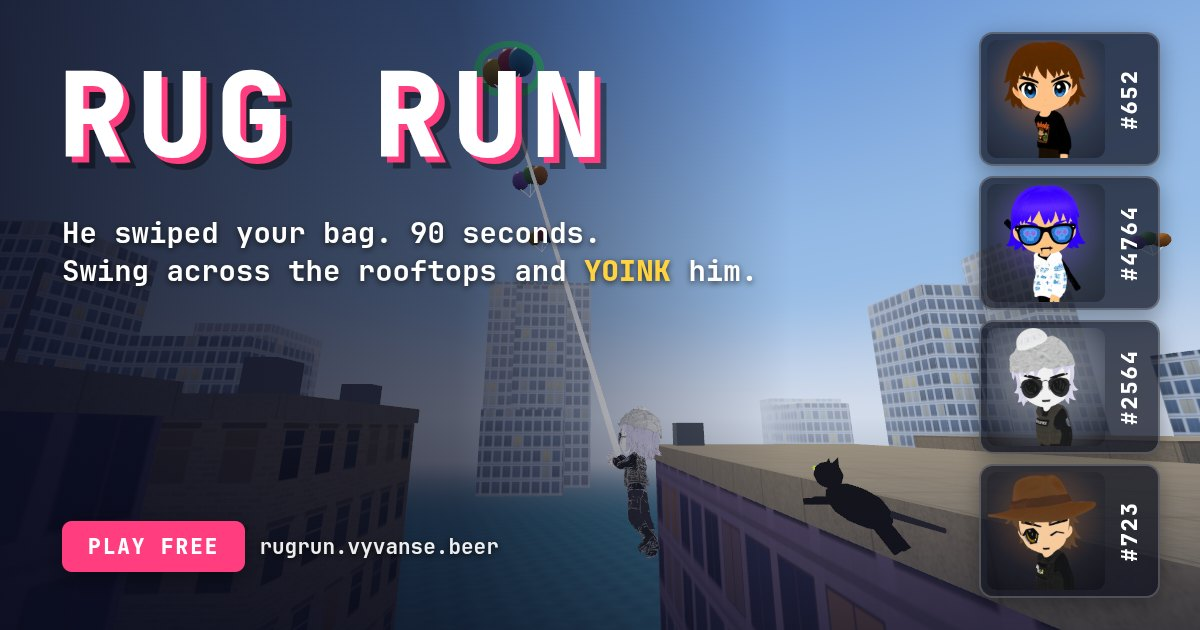
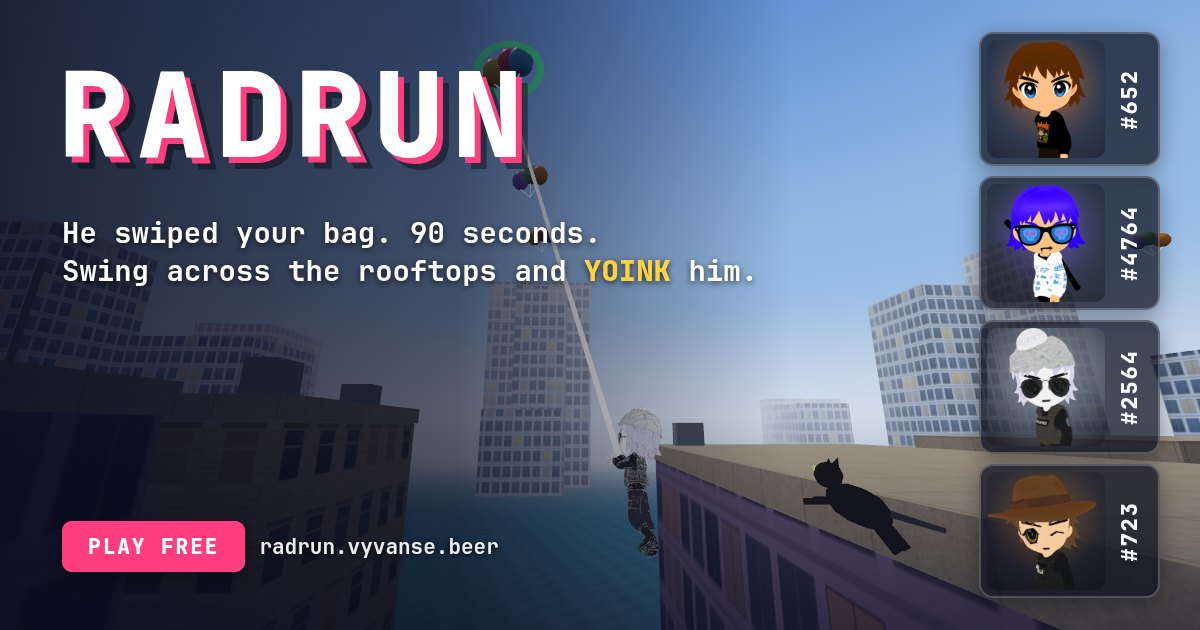
Rename the game to RadRun
Title wordmark, page title and link-preview tags, share / ghost text, rotate hint and the share card
(og.jpg re-composited over the same frame) now read RadRun on radrun.vyvanse.beer. vercel.json
permanently redirects rugrun.vyvanse.beer and radbro-rug-run.vercel.app to radrun.vyvanse.beer,
path and query kept, so old challenge / ghost links keep working. localStorage keys and RUGRUN_*
env vars keep the working-title name (no lost bests or campaign progress). README / PLAY.md
updated; the historical specs get a working-title note.

Changed region(s): [[0.0925, 0.0905, 0.5242, 0.2714], [0.2158, 0.8444, 0.2467, 0.8746]]

diff --git a/index.html b/index.html
@@ -3,29 +3,29 @@
   <head>
     <meta charset="UTF-8" />
     <meta name="viewport" content="width=device-width, initial-scale=1.0" />
-    <title>Rug Run</title>
+    <title>RadRun</title>
     <meta name="description" content="He swiped your bag. 90 seconds. Swing across the rooftops and YOINK him." />
     <meta name="theme-color" content="#141833" />
     <link rel="icon" href="/favicon.svg" type="image/svg+xml" />
     <link rel="apple-touch-icon" href="/apple-touch-icon.png" />
-    <link rel="canonical" href="https://rugrun.vyvanse.beer/" />
+    <link rel="canonical" href="https://radrun.vyvanse.beer/" />
     <meta property="og:type" content="website" />
-    <meta property="og:site_name" content="Rug Run" />
-    <meta property="og:title" content="Rug Run" />
+    <meta property="og:site_name" content="RadRun" />
+    <meta property="og:title" content="RadRun" />
     <meta property="og:description" content="He swiped your bag. 90 seconds. Swing across the rooftops and YOINK him." />
-    <meta property="og:url" content="https://rugrun.vyvanse.beer/" />
-    <meta property="og:image" content="https://rugrun.vyvanse.beer/og.jpg" />
+    <meta property="og:url" content="https://radrun.vyvanse.beer/" />
+    <meta property="og:image" content="https://radrun.vyvanse.beer/og.jpg" />
     <meta property="og:image:type" content="image/jpeg" />
     <meta property="og:image:width" content="1200" />
     <meta property="og:image:height" content="630" />
-    <meta property="og:image:alt" content="Rug Run: a Radbro swinging from a balloon over the rooftops, with Radbros #652, #4764, #2564 and #723" />
+    <meta property="og:image:alt" content="RadRun: a Radbro swinging from a balloon over the rooftops, with Radbros #652, #4764, #2564 and #723" />
     <meta name="twitter:card" content="summary_large_image" />
     <meta name="twitter:site" content="@dexedrne" />
     <meta name="twitter:creator" content="@dexedrne" />
-    <meta name="twitter:title" content="Rug Run" />
+    <meta name="twitter:title" content="RadRun" />
     <meta name="twitter:description" content="He swiped your bag. 90 seconds. Swing across the rooftops and YOINK him." />
-    <meta name="twitter:image" content="https://rugrun.vyvanse.beer/og.jpg" />
-    <meta name="twitter:image:alt" content="Rug Run: a Radbro swinging from a balloon over the rooftops, with Radbros #652, #4764, #2564 and #723" />
+    <meta name="twitter:image" content="https://radrun.vyvanse.beer/og.jpg" />
+    <meta name="twitter:image:alt" content="RadRun: a Radbro swinging from a balloon over the rooftops, with Radbros #652, #4764, #2564 and #723" />
     <style>
       html, body, #root { margin: 0; height: 100%; width: 100%; background: #9fc3e6; overflow: hidden; }
       body { font: 13px/1.4 ui-monospace, SFMono-Regular, Menlo, monospace; color: #fff; }

diff --git a/src/app/SandboxPage.tsx b/src/app/SandboxPage.tsx
@@ -34,7 +34,7 @@ function Hud({ game }: { game: Sandbox }) {
     <>
       <div style={{ position: "fixed", left: "50%", top: "50%", width: 8, height: 8, marginLeft: -4, marginTop: -4, borderRadius: 4, background: ringColor, boxShadow: "0 0 0 1.5px rgba(0,0,0,0.5)", zIndex: 10, pointerEvents: "none" }} />
       <div style={{ ...panel, left: 8, top: 8 }}>
-        <div><b>RUG RUN</b> · sandbox {AUTOPLAY ? "· autoplay" : ""}</div>
+        <div><b>RADRUN</b> · sandbox {AUTOPLAY ? "· autoplay" : ""}</div>
         <div>{hud.speed.toFixed(1)} m/s · {hud.phase} · chain {hud.chain}</div>
         <div style={{ opacity: 0.8 }}>top {hud.topSpeed.toFixed(1)} m/s · best chain {hud.maxChain} · falls {hud.falls} · bonks {hud.bonks}</div>
         <div style={{ opacity: 0.6 }}>{backend || "…"} · {hud.fps.toFixed(0)} fps{ready ? "" : " · loading city…"}</div>
@@ -51,7 +51,7 @@ function Hud({ game }: { game: Sandbox }) {
           style={{ position: "fixed", inset: 0, zIndex: 20, display: "grid", placeItems: "center", background: "rgba(8,10,20,0.35)", cursor: "pointer" }}
         >
           <div style={{ background: "rgba(12,16,28,0.85)", padding: "18px 26px", borderRadius: 10, textAlign: "center" }}>
-            <div style={{ fontSize: 28, fontWeight: 800, letterSpacing: 2 }}>RUG RUN</div>
+            <div style={{ fontSize: 28, fontWeight: 800, letterSpacing: 2 }}>RADRUN</div>
             <div style={{ marginTop: 6 }}>free-swing sandbox — click to play</div>
           </div>
         </div>

diff --git a/tools/og-image.ts b/tools/og-image.ts
@@ -1,5 +1,5 @@
 // Link-preview assets: public/og.jpg (1200x630 OG / Twitter card: a mid-swing frame from the game with
-// the RUG RUN logo, the pitch and the Radbro portraits) and public/apple-touch-icon.png (180 px,
+// the RADRUN logo, the pitch and the Radbro portraits) and public/apple-touch-icon.png (180 px,
 // from public/favicon.svg).
 //   npm run dev   (in another shell)
 //   RUGRUN_CHROME_PROFILE=<throwaway dir> node tools/og-image.ts [--url <game url>] [--pick N] [--bg <png>] [--bg-out <png>]
@@ -105,9 +105,9 @@ try {
   </style></head><body>
     <img class="bg" src="${bg}">
     <div class="shade"></div>
-    <div class="logo">RUG RUN</div>
+    <div class="logo">RADRUN</div>
     <div class="pitch">He swiped your bag. 90 seconds.<br>Swing across the rooftops and <b>YOINK</b> him.</div>
-    <div class="cta"><span class="play">PLAY FREE</span><span class="url">rugrun.vyvanse.beer</span></div>
+    <div class="cta"><span class="play">PLAY FREE</span><span class="url">radrun.vyvanse.beer</span></div>
     <div class="cards">${cards}</div>
   </body></html>`;
   await page.setViewport({ width: W, height: H, deviceScaleFactor: 1 });

diff --git a/src/ui/screens.tsx b/src/ui/screens.tsx
@@ -43,7 +43,7 @@ export function RotateHint({ inline = false }: { inline?: boolean }) {
     background: "#ffd23f", color: "#1a1a1a", fontWeight: 800, padding: "8px 14px", borderRadius: 10, fontSize: 13,
     boxShadow: "0 3px 12px rgba(0,0,0,0.35)", textAlign: "center",
   };
-  if (inline) return <div style={{ ...pill, marginBottom: 12 }} data-testid="rotate-hint">rotate your phone: Rug Run plays in landscape</div>;
+  if (inline) return <div style={{ ...pill, marginBottom: 12 }} data-testid="rotate-hint">rotate your phone: RadRun plays in landscape</div>;
   return (
     <div style={{ position: "fixed", left: "50%", top: 96, transform: "translateX(-50%)", zIndex: 40, pointerEvents: "none", width: "max-content", maxWidth: "86vw" }}>
       <div style={pill} data-testid="rotate-hint">rotate your phone: landscape plays best</div>

diff --git a/src/ui/strings.ts b/src/ui/strings.ts
@@ -3,7 +3,7 @@ import { MEDALS, type Difficulty } from "../sim/tuning.ts";
 import type { RadbroId } from "../game/round.ts";
 
 export const S = {
-  title: "RUG RUN",
+  title: "RADRUN",
   pitch: "He swiped your bag. 90 seconds. Tag him or YOINK him before the rug shows up.",
   youChase: "You chase one of the other three",
   countdownBubble: "finders keepers",
@@ -84,5 +84,5 @@ export function clockText(s: number): string {
 }
 
 export function shareText(kind: "tag" | "yoink" | "", runner: string, t: number): string {
-  return `I ${kind === "yoink" ? "yoinked" : "tagged"} #${runner} in ${t.toFixed(1)} s in Rug Run`;
+  return `I ${kind === "yoink" ? "yoinked" : "tagged"} #${runner} in ${t.toFixed(1)} s in RadRun`;
 }

diff --git a/PLAY.md b/PLAY.md
@@ -1,9 +1,9 @@
-# Playing Rug Run
+# Playing RadRun
 
 He swiped your bag. You have 90 seconds to tag him (touch) or YOINK him (lasso) before the rug shows up.
 
-**Play it: https://rugrun.vyvanse.beer** (desktop with a mouse, or a phone / tablet in landscape; the old
-https://radbro-rug-run.vercel.app address still works).
+**Play it: https://radrun.vyvanse.beer** (desktop with a mouse, or a phone / tablet in landscape; the old
+https://rugrun.vyvanse.beer and https://radbro-rug-run.vercel.app addresses redirect there, query strings included).
 
 ## Run it
 
@@ -242,7 +242,7 @@ live (crossed out once lost, ticked once met), and the results show which you go
 Unlocks: the next level once you catch him in the previous one; a district in free play once you catch him
 in its first level; a mutator toggle once you catch him in a level using it; **Degen** in free play at 12
 stars; hats for George at 9 / 21 / 33 stars (party hat, crown, tin foil; pick on the campaign screen).
-Stars are best-of and live in the browser (`localStorage` "rugrun.campaign.v1"). Level list, objectives and
+Stars are best-of and live in the browser (`localStorage` "rugrun.campaign.v1", named for the working title and kept so progress carries over). Level list, objectives and
 unlock thresholds: `src/game/campaign.ts`. A level in another district reloads the page on that district
 (`?map=docks&lvl=7` opens the campaign screen on level 7). Bots: `&lvl=N` scores a bot round as level N
 (pass that level's `d` and `mu` too).
@@ -398,8 +398,9 @@ The built-in defaults are `GEORGE` in `src/sidekick/george.ts`; the model switch
 ## Link previews
 
 `index.html` carries the title, description, theme colour, favicon and the Open Graph / Twitter card
-tags (`twitter:site` / `twitter:creator` @dexedrne). The canonical / og:url / image URLs are absolute on https://rugrun.vyvanse.beer (the canonical
-address; the old vercel.app alias serves the same page), so change them if the game moves. Share and
+tags (`twitter:site` / `twitter:creator` @dexedrne). The canonical / og:url / image URLs are absolute on https://radrun.vyvanse.beer (the canonical
+address; `vercel.json` permanently redirects the old rugrun.vyvanse.beer and vercel.app hosts there, path and
+query kept), so change them if the game moves. Share and
 challenge / ghost links are built from the address the game was opened on.
 `public/og.jpg` (1200x630) is a mid-swing frame from the game with the logo, the pitch and the four
 Radbro portraits; `public/favicon.svg` is drawn by hand. `npm run og-image` (dev server up,

diff --git a/README.md b/README.md
@@ -1,8 +1,10 @@
-# Rug Run
+# RadRun
 
 A rooftop chase with balloon swinging, built on [react-three-game](https://prnth.com/react-three-game/).
 Design: `docs/specs/2026-09-23-rug-run-design.md`. Quick guide (run, controls, editing, tuning, known
-issues): `PLAY.md`. Live: https://rugrun.vyvanse.beer (the old https://radbro-rug-run.vercel.app still works)
+issues): `PLAY.md`. Live: https://radrun.vyvanse.beer (the old https://rugrun.vyvanse.beer and
+https://radbro-rug-run.vercel.app addresses redirect there, query strings included, so old challenge / ghost
+links keep working). Working title: Rug Run (the `rugrun.*` storage keys and `RUGRUN_*` env vars keep that name).
 
 Status: M0-M5 — the playable chase with the real characters: pick Radbro #652, #4764, #2564 or #723 (the cowboy), chase
 the runner for 90 s (tag or YOINK him), with George the cat trailing you, the Pockit Milady running the

diff --git a/docs/specs/2026-09-24-round4-depth.md b/docs/specs/2026-09-24-round4-depth.md
@@ -1,3 +1,5 @@
+Working title at the time: Rug Run (now RadRun).
+
 # Rug Run — round 4: depth (design)
 
 **Date:** 2026-09-24 · **Status:** approved direction, built in this round

diff --git a/docs/specs/2026-09-23-rug-run-design.md b/docs/specs/2026-09-23-rug-run-design.md
@@ -1,3 +1,5 @@
+Working title at the time: Rug Run (now RadRun).
+
 # Rug Run — design spec (v2)
 
 **Status:** approved design, revised after review · **Date:** 2026-09-24
